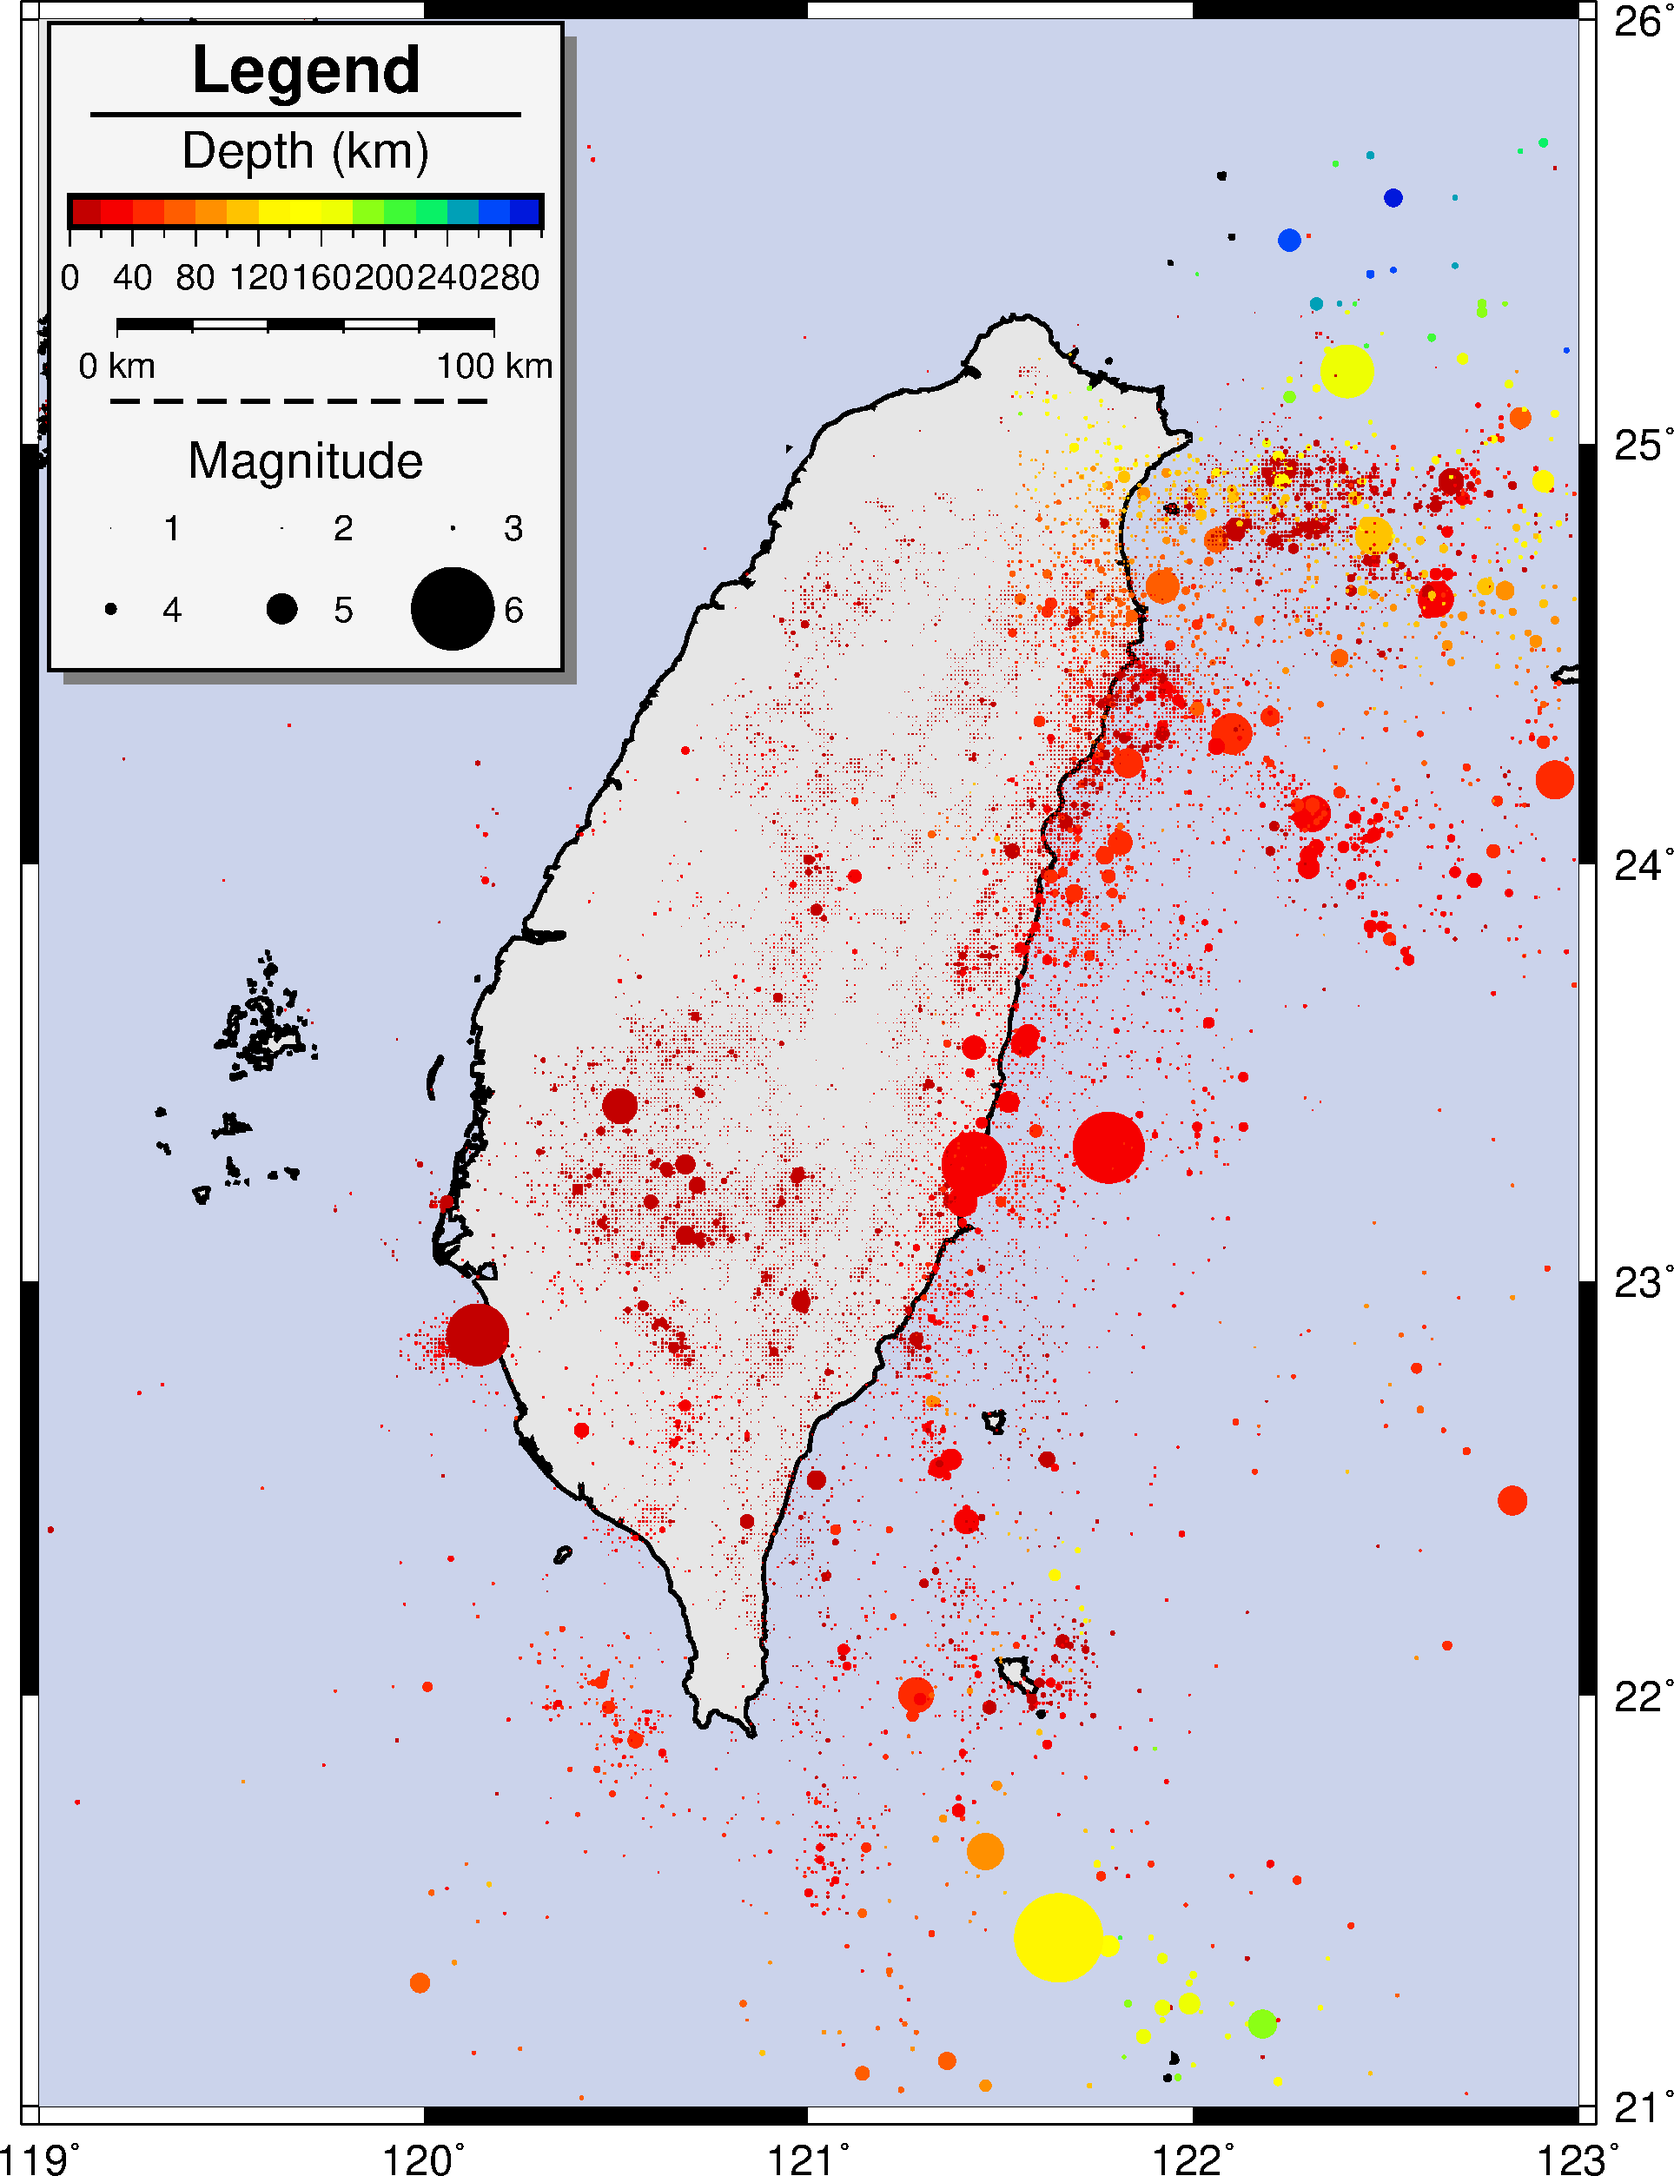
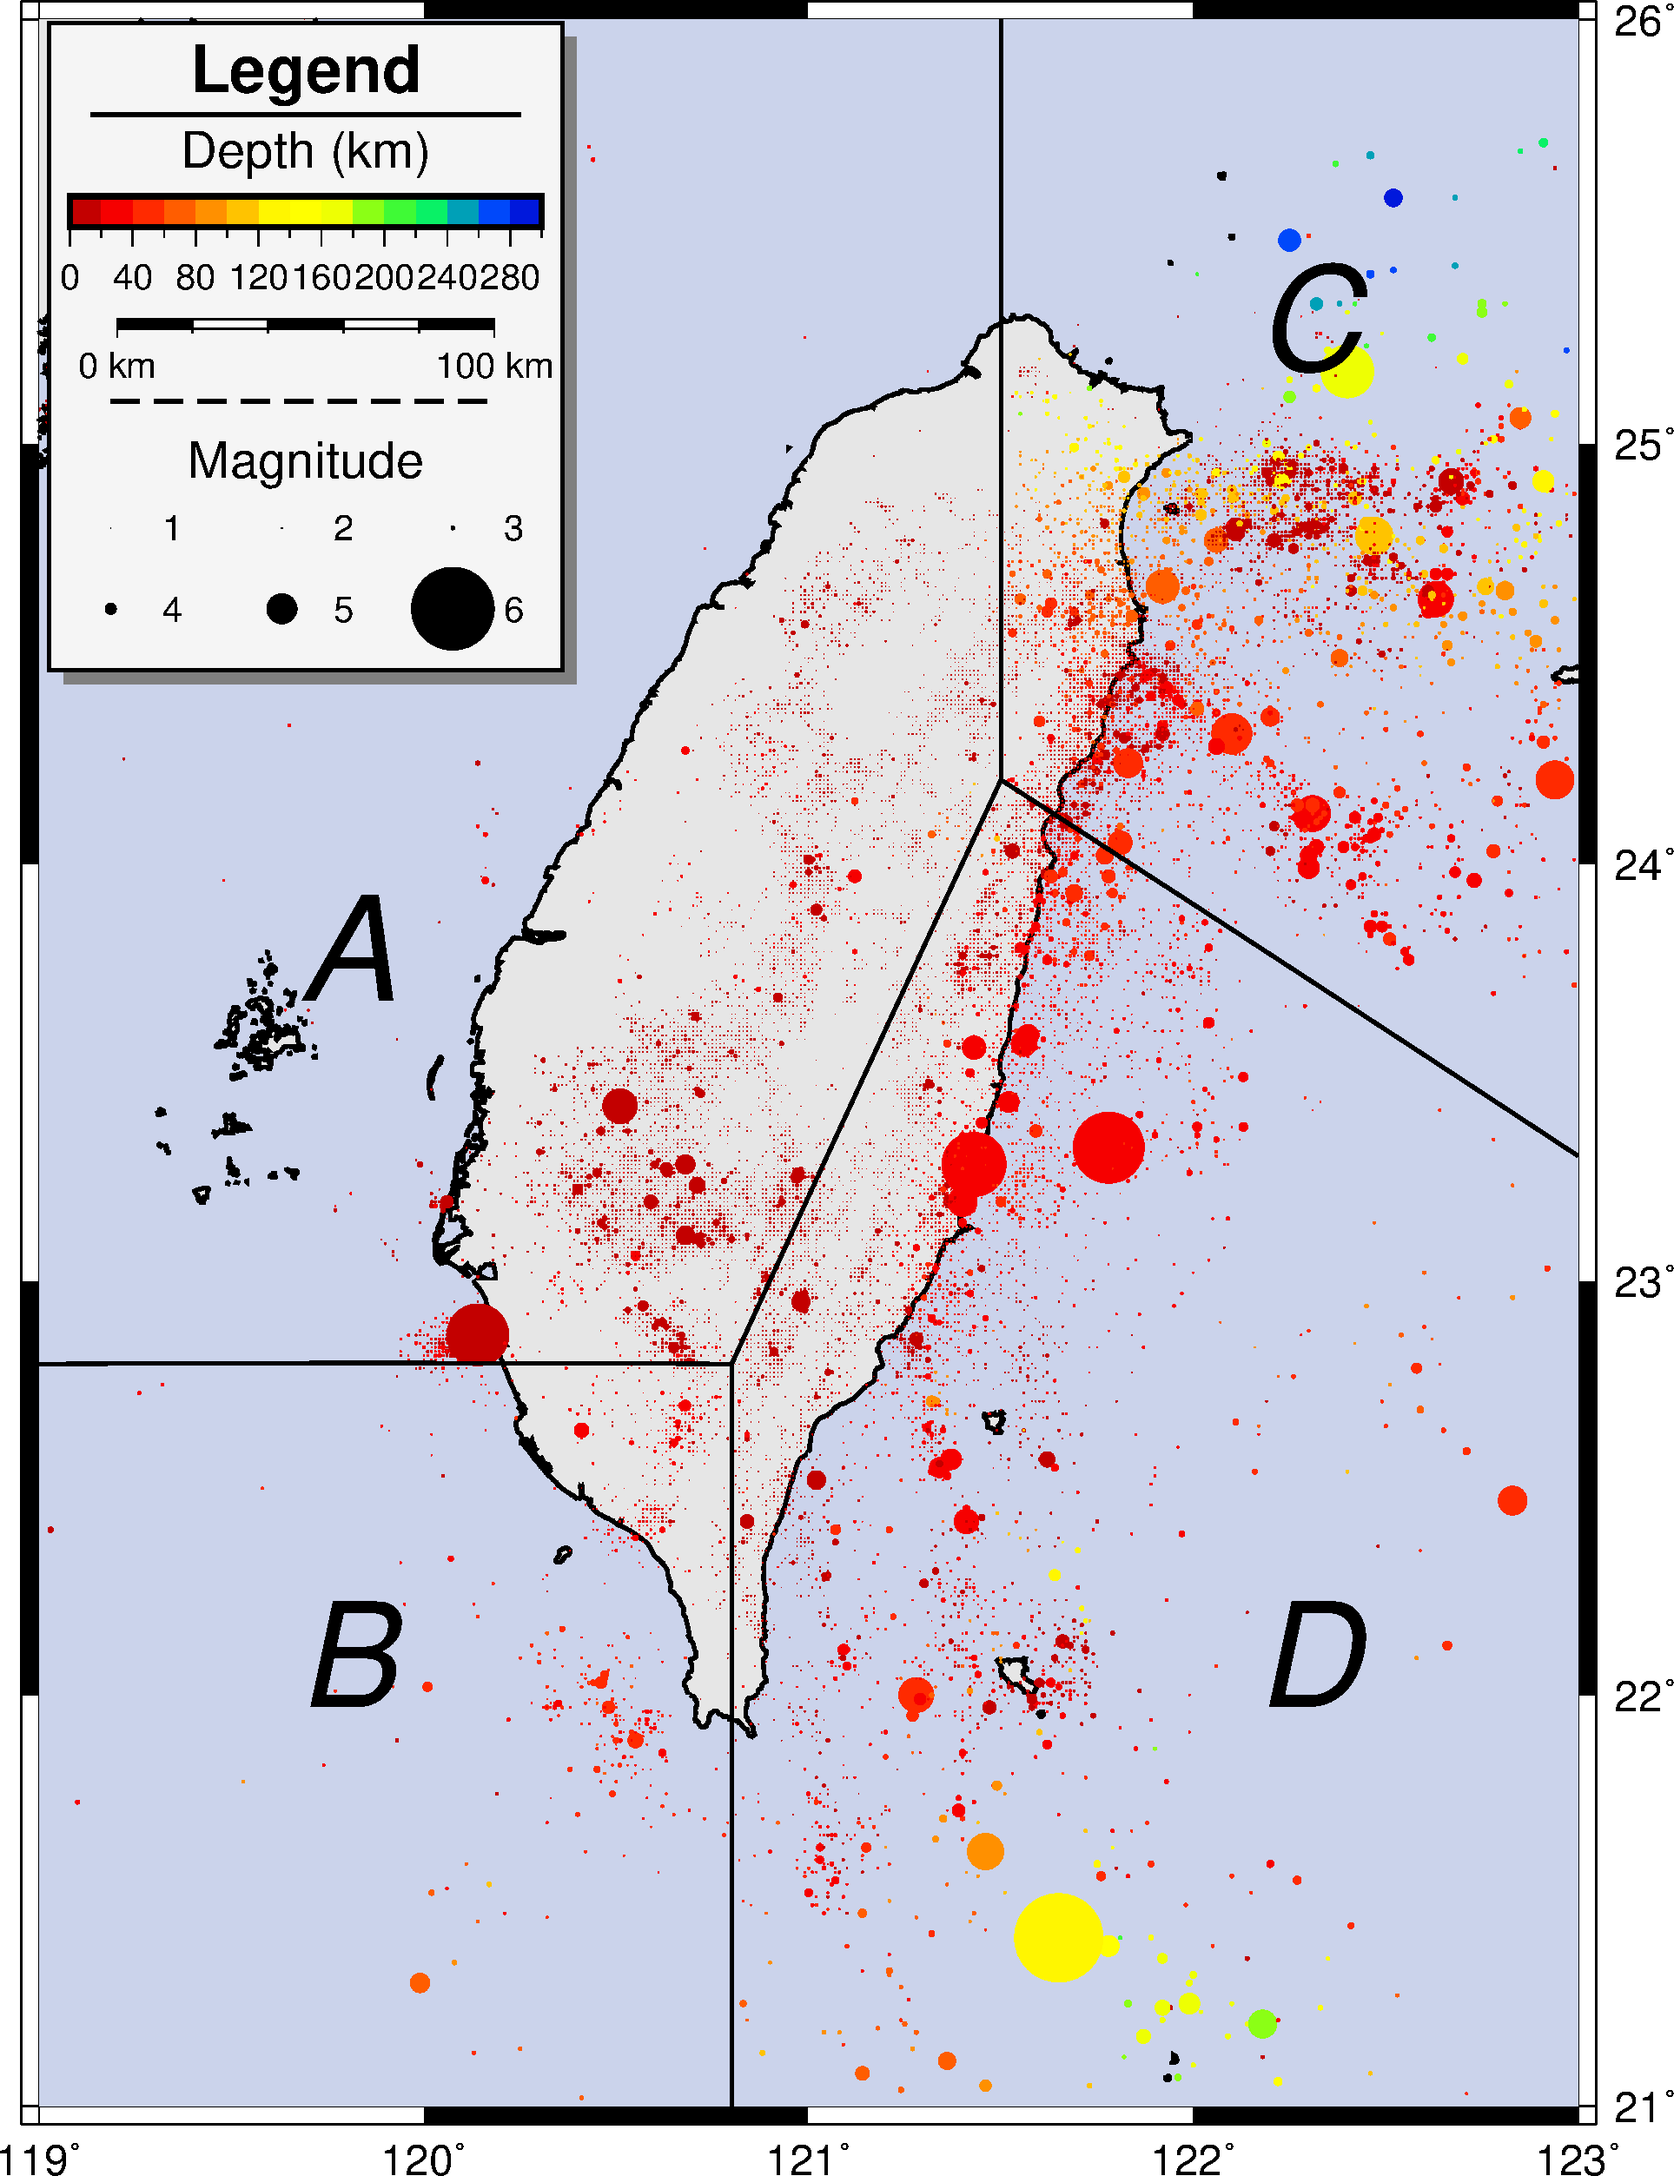
update 9-3

diff --git a/docs/seismicity_meca.md b/docs/seismicity_meca.md
@@ -69,7 +69,29 @@ for /f %%i in ('awk "{print exp($1)*0.002}" tmp') do (
 )
 set var
 
-# 3. legend set
+# 3. boundary of four seismic zones
+echo 119.0 22.8 > tmp
+echo 120.8 22.8 >> tmp
+echo ^> >> tmp
+echo 120.8 21.0 >> tmp
+echo 120.8 22.8 >> tmp
+echo ^> >> tmp
+echo 120.8 22.8 >> tmp
+echo 121.5 24.2 >> tmp
+echo ^> >> tmp
+echo 121.5 26.0 >> tmp
+echo 121.5 24.2 >> tmp
+echo ^> >> tmp
+echo 123.0 23.3 >> tmp
+echo 121.5 24.2 >> tmp
+echo ^> >> tmp
+gmt psxy tmp -R -JM -W1 -K -O >> %ps%
+echo 119.8 23.8 A | gmt pstext -R -JM -F+f40p,2 -K -O >> %ps%
+echo 119.8 22.1 B | gmt pstext -R -JM -F+f40p,2 -K -O >> %ps%
+echo 122.3 25.3 C | gmt pstext -R -JM -F+f40p,2 -K -O >> %ps%
+echo 122.3 22.1 D | gmt pstext -R -JM -F+f40p,2 -K -O >> %ps%
+
+# 4. legend set
 echo H 18 1 Legend > tmp
 echo D 0.4 1p >> tmp
 echo G .7 >> tmp
@@ -95,10 +117,47 @@ gmt pslegend tmp -R -JM -C.1/.1 -Dx.1/14+w5 -F+g245+p1+s4p/-4p/gray50 ^
 
 gmt psxy -R -JM -T -O >> %ps%
 gmt psconvert %ps% -Tg -A -P
-del tmp
+del tmp*
 ```
 學習到的指令:
-* `makecpt`:
+
+<mark>1</mark>繪製地震活動性底圖
+* `gmtinfo`讀取第三欄(深度)做色階的範圍。
+  * `-T`間隔，輸出成<mark>-Tz軸最小/z軸最大/z間隔<mark>。
+* `awk`將第四欄(規模)透過exp()做指數函數運算。
+* `psxy`利用`-C`色階檔，將依照第三欄(深度)做顏色的變化；
+`-Sc`在不給數值的情況下，將會讀取第四欄(規模)做圖形大小的變化。
+
+<mark>2</mark>利用迴圈設定1~7規模轉換數值後的變數
+* `echo 1 > tmp`及`for /l..`製造1~7的tmp暫存檔。
+* `awk`tmp暫存檔做規模數值轉換。
+* `set var!vidx!=%%i`迴圈設定變數。
+
+<mark>3</mark>繪製地震分區邊界
+* `echo ^> >> tmp`要把<mark>></mark>加入暫存檔中，需要多加上<mark>^</mark>符號，
+將<mark>></mark>從特殊字元轉為一般字元。
+
+<mark>4</mark>製作圖例說明
+* `pslegend`
+  * `B`繪製色彩條。格式為`B cpt檔 兩邊間隔 色彩條高度`。
+    * 可在高度後增加`[+e][+h][+m]`等等，也可增加`-B`、`-I`等等參數，可參考`psscale`模組。
+  * `M`繪製比例尺。格式為`M 經度 緯度 長度`。
+    * 可在長度後增加`[+f][+l][+u]`等等，也可增加`-F`、`-R`等等參數，可參考`psbasemap`模組。
+  * `L`增加指令的文字。格式為`L 字體大小 字體 對齊方式 文字`
+
+之前在畫地形圖的時後有提到如何在二維的平面上表現三維的資料，有提到顏色可以做為第三維度的呈現方式，
+這邊示範了利用圖案的大小，來呈現第四維度的變化，所以當`psxy`在給定`-C`及`-S`時後，
+會分別對應到資料檔的第三及第四欄，依照數值的大小去做變化。
+
+從圖中來看，台灣的地震主要分佈分成四塊(Wu and Chen, 2007[^1])，A表示西部地震帶，
+位在歐亞大陸版塊上，多數發生在此地區的地震，是受到活動斷層影響；B是西南部地震帶，
+本區大部份位在南中國海板塊上，是四個區塊中，地震活動性最少的；C代表東北部地震帶，
+包含了琉球隱沒帶及沖繩海溝，許多規模較大、深度較深的隱沒帶地震發生於此區，
+並有一些火山活動；D是東南部地震帶，受到歐亞板塊與菲律賓海板塊碰撞，
+造成大量的地震發生，不乏一些規模大於5的地震。
+
+[^1]: Seismic reversal pattern for the 1999 Chi-Chi, Taiwan, Mw 7.6 earthquake
+(Y.M. Wu and C.C. Chen, 2007)
 
 ## 9.4 震源機制解
 - [BATS](http://tecws.earth.sinica.edu.tw/BATS/cmtbyform.php)，由中研院管理，提供台灣地震的震源機制解。
@@ -116,3 +175,7 @@ del tmp
 ---
 
 [上一章](/topography_cpt.md) -- [下一章](/seismicity_histo.md)
+
+---
+
+### 註腳

diff --git a/docs/xy_figure.md b/docs/xy_figure.md
@@ -110,7 +110,7 @@ del area
 
 |Style |    |
 |:----:|----|
-|-     |dash| 
+|-     |dash|
 |.     |dot |
 |-.    |dash-dot|
 |..-   |dot-dot-dash|
@@ -119,7 +119,7 @@ del area
 * 第21~26行: 繪製圖例框，`echo`四個點時，編者習慣逆時針編輯點位置。
 在`psxy`之中，`-L`強制關閉多邊形
 * 第28行: `pstext`書寫圖例說明，吃的輸入檔格式為<mark>x軸位置 y軸位置 書寫的字</mark>。細部選項有:
-  * `-F`: 
+  * `-F`:
     * **+a**改變字的角度
     * **+f**字大小,字體,顏色
     * **+j**對齊模式，可參考[4-4字的對齊模式](basic_defaults.md#m4.4j)
@@ -195,7 +195,7 @@ gmt psconvert %ps% -Tg -A -P
 del tmp
 ```
 
-成果圖右側參考==Ansfield_1992==[^1]。本節學習的新指令:
+成果圖右側參考<mark>Ansfield_1992</mark>[^1]。本節學習的新指令:
 * 第4~5行: `-JX9/15l`會將y軸設定以10次方倍為一個區間的線性軸，
 `-By`之中<mark>a1p</mark>是將y軸的註解(tick markes or annotation)變成10次方表示；
 <mark>f3</mark>當-JX設定為l時，次要刻度有兩種選項，2以線性畫刻度，3以次方倍畫刻度。
@@ -318,7 +318,7 @@ echo -90 1 1 m/s > tmp
 echo -90 2 2 m/s >> tmp
 echo -90 3 3 m/s >> tmp
 echo -90 4 4 m/s >> tmp
-gmt pstext tmp -R -JP -F+f14p -G230 -K -O >> %ps% 
+gmt pstext tmp -R -JP -F+f14p -G230 -K -O >> %ps%
 
 # legend set
 echo H 24 Times-Roman Legend > tmp

diff --git a/docs/topography_cpt.md b/docs/topography_cpt.md
@@ -30,7 +30,7 @@
 * `grdimage`: 繪製色階地圖
 * `grdinfo`: 從網格檔中獲取資訊
 * `grd2cpt`: 利用網格檔資料建立色階檔
-* `psscale`: 繪製色階
+* `psscale`: 繪製色彩條
 * `makecpt`: 製作色階檔
 
 ## 8.3 簡介色階檔
